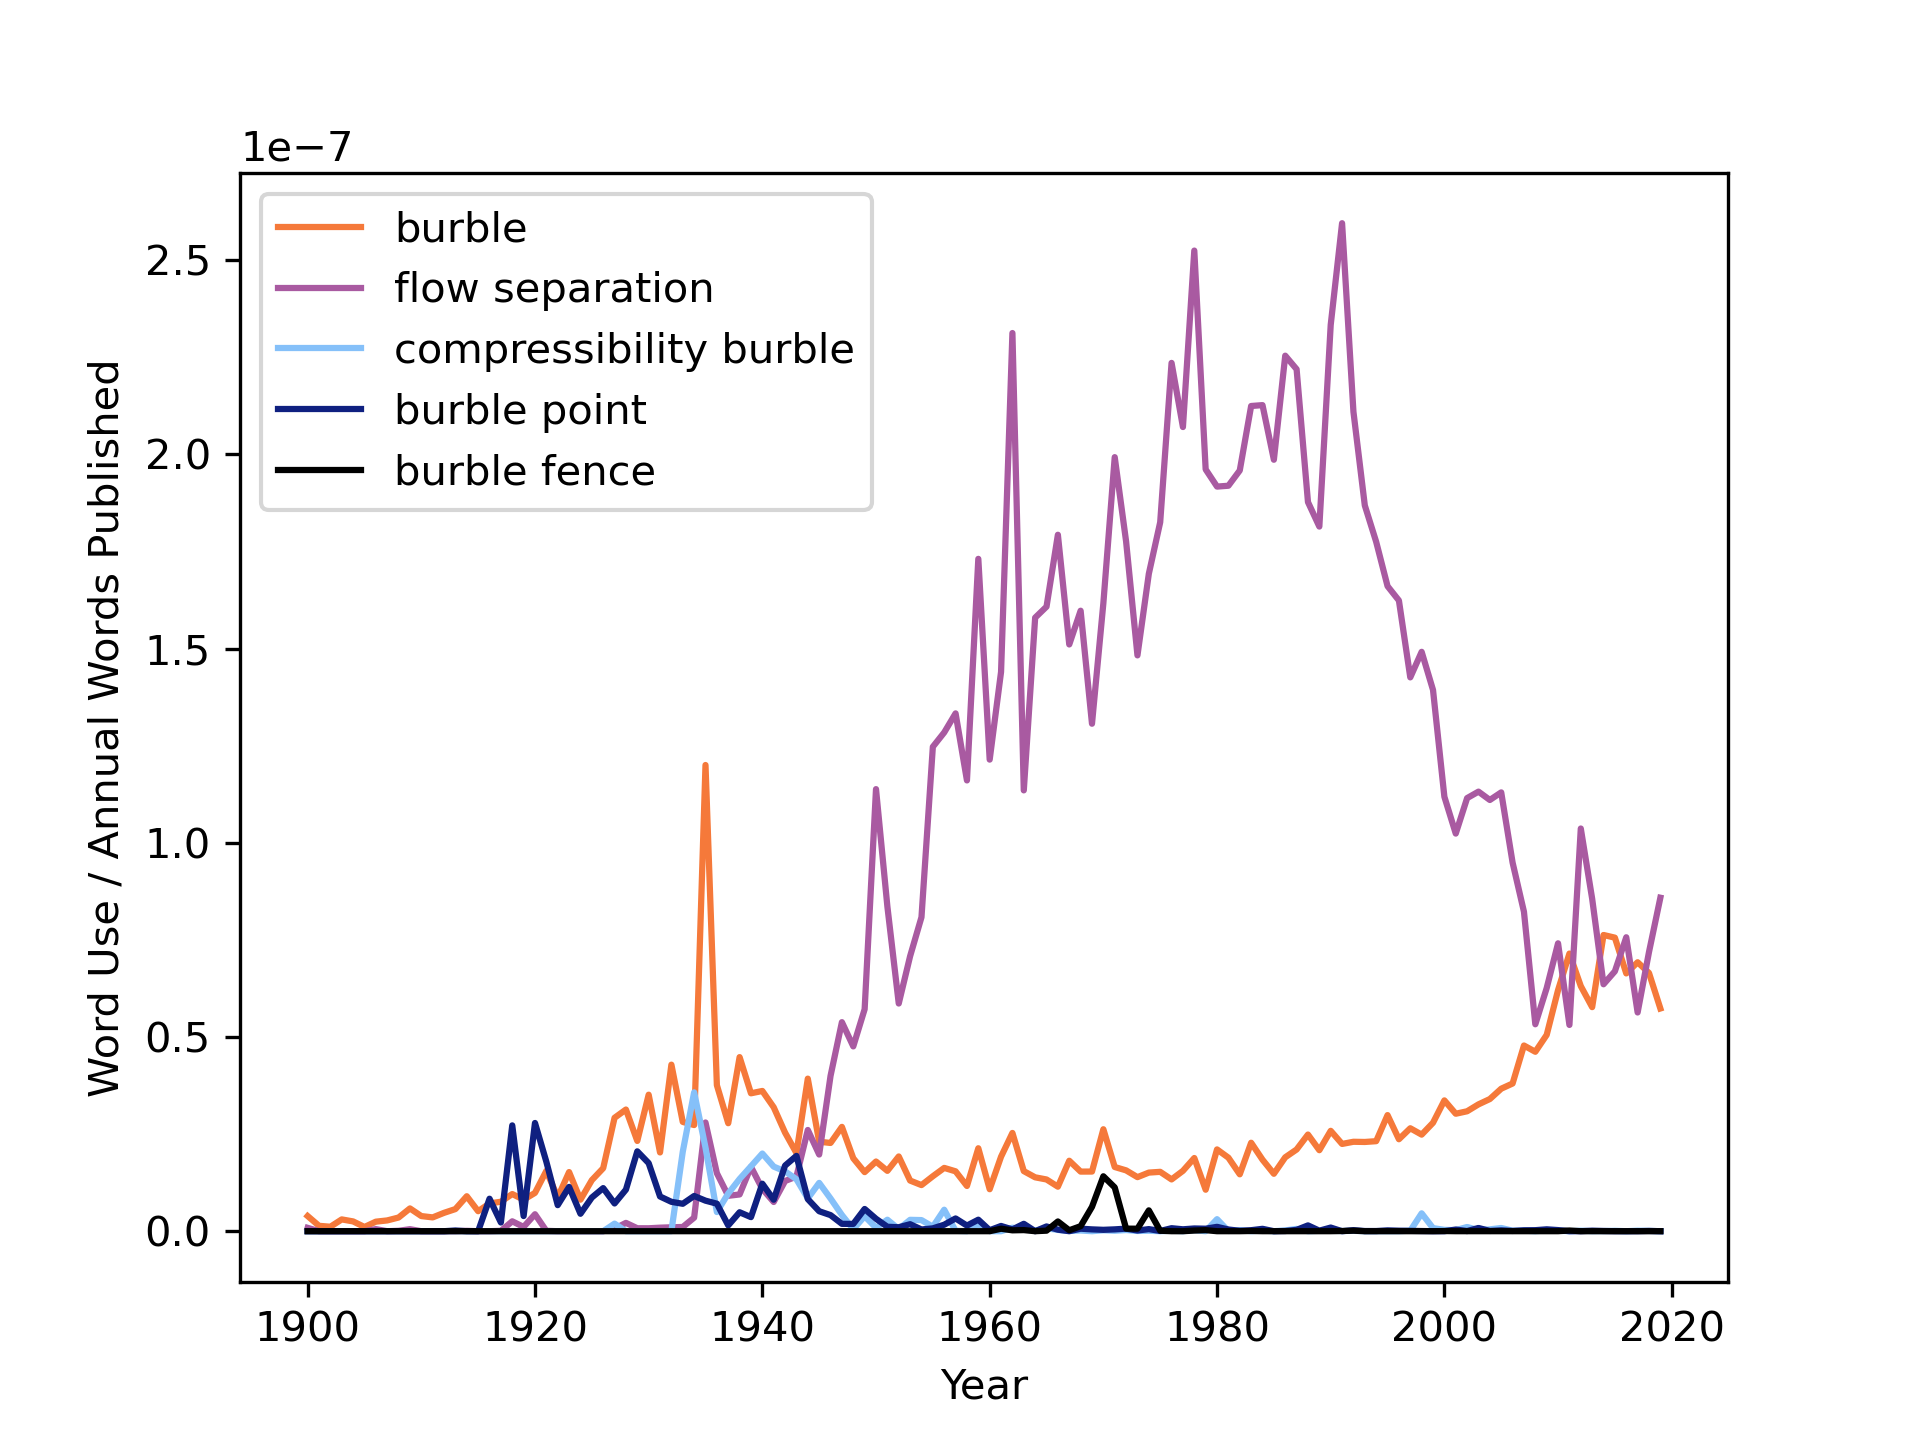
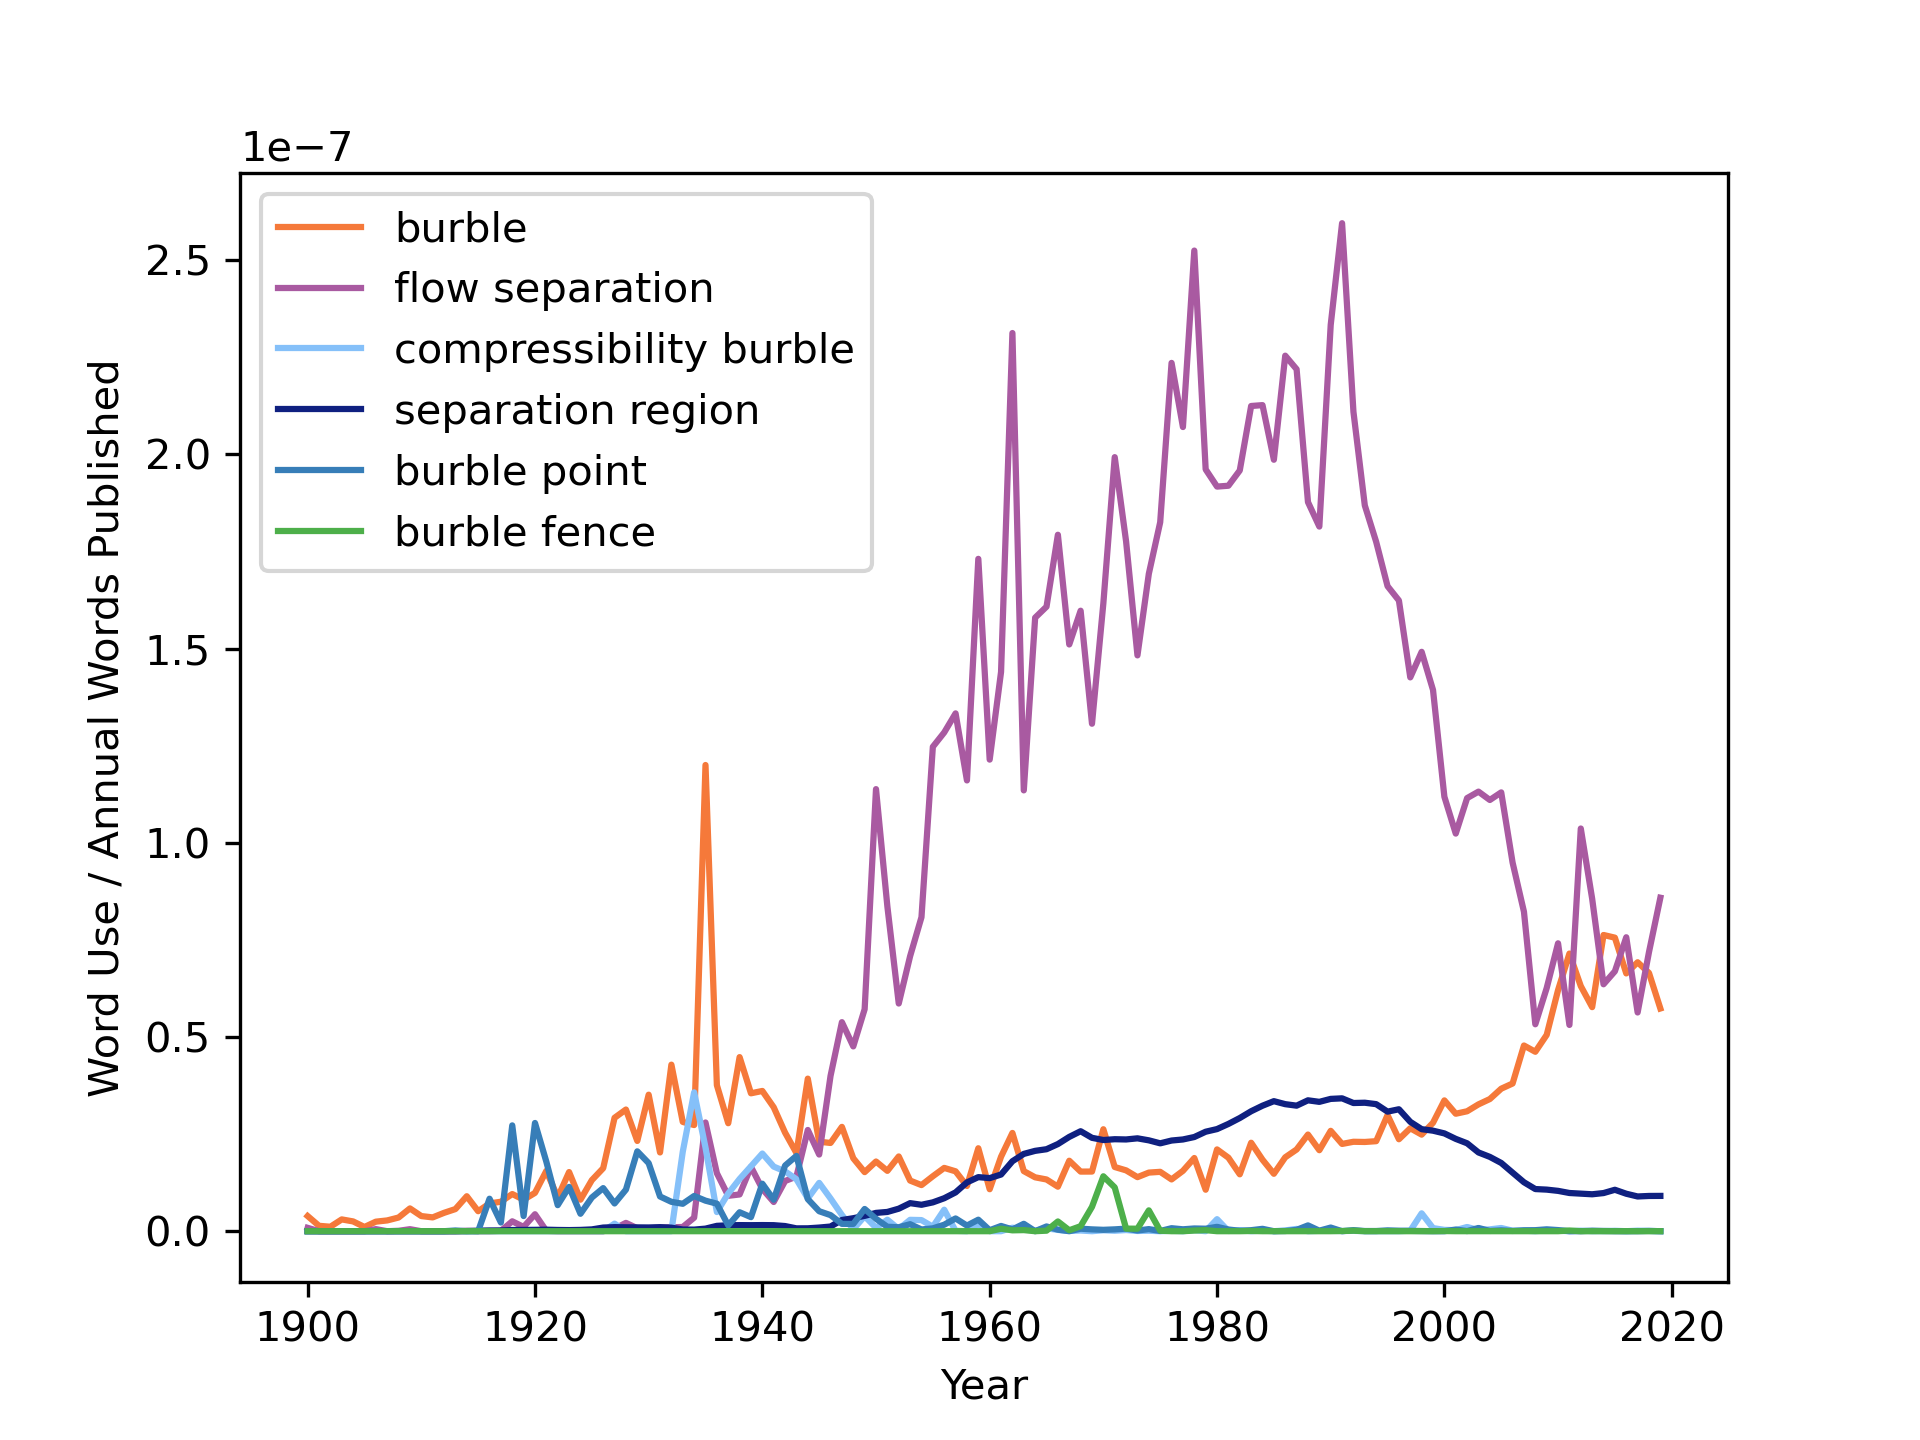
pushing

diff --git a/Burble/counts_plot.py b/Burble/counts_plot.py
@@ -33,6 +33,8 @@ if __name__ == "__main__":
 
         "burble_point.txt", 
 
+        "separation_region.txt",
+
         "compressibility_burble.txt", # only _INF version
         "Compressibility_burble_.txt", "Compressibility_Burble__.txt", 
         "COMPRESSIBILITY_BURBLE___.txt", 
@@ -52,10 +54,17 @@ if __name__ == "__main__":
     plots_folder = "./plots/"
     show_plots = True
 
-    for file in ngram_files:
+    # color blind colors
+    cs = ["#F5793A","#A95AA1","#85C0F9","#0F2080",
+    '#377eb8', '#4daf4a',
+    '#f781bf', '#a65628', '#984ea3',
+    '#999999', '#e41a1c', '#dede00']
+
+    for i,file in enumerate(ngram_files):
         ngram = file.split(".")[0]
         ngrams[ngram] = get_info(folder + file)
-        plt.plot(t,ngrams[ngram],label = ngram.replace("_"," "))
+        c_i = i % len(cs)
+        plt.plot(t,ngrams[ngram],c=cs[c_i],label = ngram.replace("_"," "))
     
     plt.xlabel("Year")
     plt.ylabel("Word Use as Percentage of Annual Words Published")
@@ -73,6 +82,9 @@ if __name__ == "__main__":
     )
     ngrams_simp["burble_fence"] = (
         + ngrams["burble_fence"]
+    )
+    ngrams_simp["separation_region"] = (
+        + ngrams["separation_region"]
     )
     ngrams_simp["burble"] = (ngrams["burble"] 
         # + ngrams["burbled"] 
@@ -99,12 +111,9 @@ if __name__ == "__main__":
         + ngrams["bubble"]
     )
 
-    # color-blind colors
-    cs = ["#F5793A","#A95AA1","#85C0F9","#0F2080","k"]
-
     # plot condensed plot
     order = ["burble","flow_separation",
-    "compressibility_burble","burble_point","burble_fence"]
+    "compressibility_burble","separation_region","burble_point","burble_fence"]
 
     for i in range(len(order)):
         ngram = order[i]
